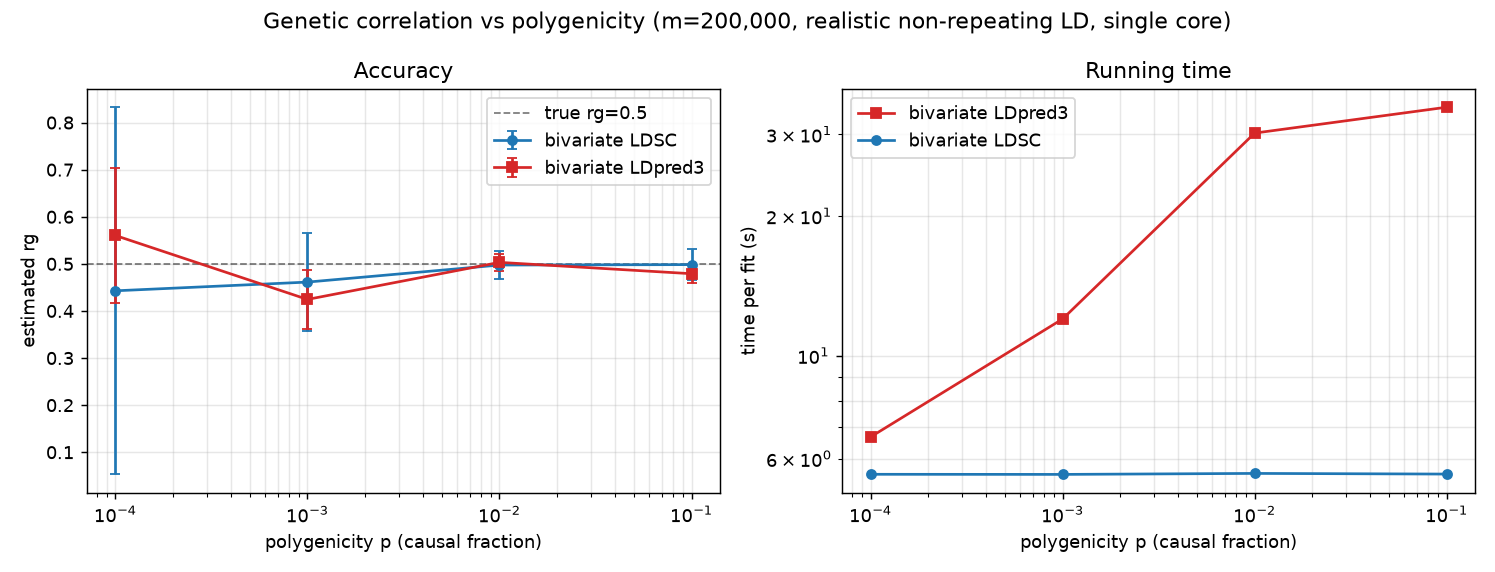
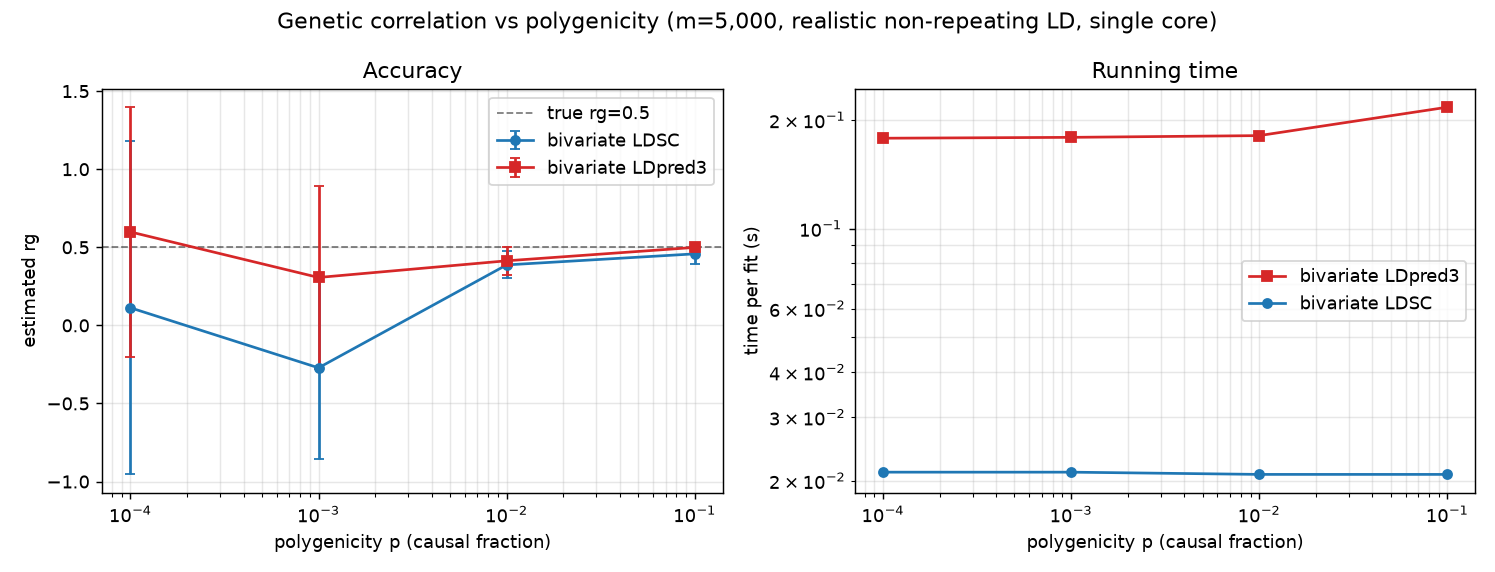
Add pi_prior; re-characterize count bias as LD-spreading; regen artifacts
Two threads:

1. pi_prior. The four-state mixture Dirichlet prior concentration is now a
   parameter (default 1.0 = historical uniform, backward compatible; 0.5 =
   Jeffreys). Mirrors ldpred3's new univariate p_prior. It is a minor lever for
   the absolute counts under real LD (~5%), with rg unchanged; improper <=0
   concentrations are rejected. Adds a test.

2. Re-characterize the absolute polygenic-count over-count. Benchmarking the
   univariate and bivariate samplers against known truth (and ldpred3's exact
   no-LD marginal posterior for p) shows the low-per-SNP-power over-count is
   dominated by LD-spreading -- correlated SNPs recruited as causal around each
   true causal -- which inflates the count at the posterior mode itself (tight
   posterior, mean ~ median ~ mode), is present even under matched in-sample LD,
   and is amplified by the four-state model, so the bivariate over-counts MORE
   than the univariate fit. This corrects the earlier "identical to univariate /
   U-shaped in power / mainly LD-reference-mismatch" framing. The prior and the
   mean-vs-median summary are drivers only in the no-LD limit. Per-causal power
   governs identifiability but the bias is genuinely 2-D in (N*h2/M, p). Ratios
   (rg, frac_shared) cancel it throughout. Updates docs/rg.md, the mixer /
   mixer_calibrated / noise_inflation docstrings, and mixer_overlap.py.

Regenerates the stale bivariate benchmark artifacts (rg_polygenicity,
[…]

diff --git a/bipred/bivariate.py b/bipred/bivariate.py
@@ -325,17 +325,19 @@ class BivariateResult:
         Caveat: the point-normal mixture does **not calibrate absolute
         polygenicity** — the four-state posterior counts a causal variant's LD
         neighbours as (partially) causal too, so ``n_causal`` / ``n_shared`` are
-        biased by an architecture- and power-dependent factor (benchmarked from
-        ~0.3x with clustered causal variants to ~2.5x when they are spread across
-        LD blocks and N is large; see ``benchmarks/mixer_overlap.py``). The
-        dominant term is **LD-reference mismatch** (the bias grows with N and
-        collapses when the fit uses the exact in-sample LD); ``r_g`` and the
-        overlap fraction are *ratios* and cancel it, so read ``polygenicity`` /
-        ``n_*`` as *relative*. To put the counts on a calibrated scale, anchor them
-        with two univariate ``ldpred3_auto_infer`` runs via :meth:`mixer_calibrated`
-        (the univariate polygenicity is far less LD-mismatch-sensitive). A dedicated
-        causal-mixture likelihood (MiXeR) is what calibrates the absolute counts
-        from scratch. Needs a well-powered pair (large ``N*h2/m``) to be meaningful.
+        **over-estimated at the low per-SNP power `N*h2/M < 1` of real GWAS**
+        (~3x at ``p=0.10``, more when sparser; see ``benchmarks/mixer_overlap.py``
+        and docs/rg.md). The dominant term with real LD is **LD-spreading**:
+        it persists even under matched, in-sample LD (it does *not* collapse), and
+        the four-state model amplifies it, so the bivariate over-counts more than
+        univariate ``ldpred3_auto_infer``. ``r_g`` and the overlap fraction are
+        *ratios* and cancel it, so read ``polygenicity`` / ``n_*`` as *relative*.
+        Mitigations: ``noise_inflation=True`` (damps the reference-mismatch part),
+        LD shrinkage / QC, and — for a calibrated scale — anchoring with two
+        univariate runs via :meth:`mixer_calibrated` (the univariate anchor is
+        *less* LD-spread-inflated, so this reduces but does not remove the bias).
+        A dedicated causal-mixture likelihood (MiXeR) calibrates from scratch.
+        Needs a well-powered pair (large ``N*h2/m``) to be meaningful.
 
         For the **posterior distribution** of these quantities (a credible interval,
         not just this point estimate), see :meth:`mixer_posterior`, which maps the
@@ -438,14 +440,16 @@ class BivariateResult:
         """:attr:`mixer` with the **absolute counts calibrated** by two univariate
         ``ldpred3_auto_infer`` runs.
 
-        The joint fit's per-trait polygenicity is inflated mainly by LD-reference
-        mismatch, and the four-state sampler is ~2x more sensitive to it than a
+        The joint fit's per-trait polygenicity is inflated mainly by **LD-spreading**
+        (correlated SNPs recruited around each causal, present even under matched
+        LD), and the four-state sampler is ~2x more sensitive to it than a
         univariate fit. This keeps the joint fit's reliable *ratios* — the shared
         fraction ``frac_shared`` and the within-shared effect correlation
         ``rho_beta`` — but replaces ``(pi1, pi2)`` with the univariate learned
-        polygenicities (well-calibrated when the LD matches), and rebuilds
-        ``n_causal`` / ``n_shared`` / ``rg_from_overlap`` on that scale. This is the
-        recommended readout for **absolute** overlap counts.
+        polygenicities (which are *less* inflated, though still over-counted at low
+        power), and rebuilds ``n_causal`` / ``n_shared`` / ``rg_from_overlap`` on
+        that scale. So it *reduces* rather than eliminates the absolute-count bias;
+        combine with ``noise_inflation`` / adequate power / LD QC.
 
         ``infer1`` / ``infer2`` are the trait-1 / trait-2 :class:`InferResult`
         objects (their ``p_est`` is used); floats are also accepted.
@@ -473,7 +477,7 @@ def ldpred3_auto_bivariate_blocks(blocks, beta_hat1, beta_hat2, n_eff1, n_eff2, 
                                   h2_bounds=(1e-4, 1.0), h2_cap=None,
                                   iw_df=10.0, rg_decorrelated=False,
                                   noise_inflation=False, ni_damp=0.1,
-                                  sample_every=5, seed=None):
+                                  pi_prior=1.0, sample_every=5, seed=None):
     """Genome-wide (streaming) bivariate LDpred3-auto.
 
     ``blocks`` is the ``[(R, idx), ...]`` list (contiguous ``idx`` partitioning
@@ -526,29 +530,42 @@ def ldpred3_auto_bivariate_blocks(blocks, beta_hat1, beta_hat2, n_eff1, n_eff2, 
         GWAS sample, but is inflated under **LD-reference mismatch**; the learned
         ``lambda`` makes the sampler correspondingly less confident so it stops
         reading that misfit as extra polygenicity. This targets the **absolute
-        polygenic-overlap counts** (:attr:`BivariateResult.mixer`). Their bias is
-        **U-shaped in per-SNP power** ``N*h2/M`` and is *dominated by the
-        realistic low-power regime* ``N*h2/M < 1``: there the point-normal model
-        over-recruits null SNPs and the count is over-estimated by up to ~3x even
-        under **matched** LD, so this is an over-count of the model itself, not a
-        bivariate or LD-mismatch defect (the same over-count appears in ldpred3's
-        univariate ``p``). LD-reference mismatch adds a further, smaller inflation
-        on top. ``lambda`` damps **both** components -- most under mismatch, but it
-        also tempers the low-power over-recruitment -- while leaving ``h2`` and
-        ``rg`` essentially unchanged (validated in ``benchmarks/mixer_overlap.py``:
-        e.g. count/true 3.4->2.5 at ``N*h2/M=0.1`` on reference-panel LD). A scalar
-        ``lambda`` cannot absorb structured mismatch or dense-causal LD-spreading
-        entirely, and it is ~a no-op under matched LD at higher power
+        polygenic-overlap counts** (:attr:`BivariateResult.mixer`), which at the
+        realistic low per-SNP power ``N*h2/M < 1`` are over-estimated (~3x at
+        ``p=0.10``, more when sparser). The dominant cause with real LD is
+        **LD-spreading** -- correlated SNPs recruited as causal around each true
+        causal, inflating the count at the posterior *mode* itself (present even
+        under matched LD; amplified by the four-state model, so the bivariate
+        over-counts more than univariate ``ldpred3_auto_infer``). LD-*reference*
+        mismatch adds a further inflation on top. ``lambda`` damps the
+        **mismatch** component (and a little of the spreading) while leaving ``h2``
+        and ``rg`` essentially unchanged (validated in
+        ``benchmarks/mixer_overlap.py``: e.g. count/true 3.4->2.5 at ``N*h2/M=0.1``
+        on reference-panel LD). A scalar ``lambda`` cannot absorb the matched-LD
+        spreading, and it is ~a no-op under matched LD at higher power
         (``lambda ~ 1``). Recommended when fitting on a finite **reference panel**
         (the usual case); left off by default so the estimator is unchanged unless
-        requested. Whatever the absolute counts, the **ratios** (``rg``,
-        ``frac_shared``) are unbiased throughout. The learned factors are returned
-        in ``BivariateResult.noise_scale``.
+        requested. The Dirichlet ``pi_prior`` and the mean-vs-median summary are
+        only minor levers here (they matter in the no-LD limit; see docs/rg.md).
+        Whatever the absolute counts, the **ratios** (``rg``, ``frac_shared``) are
+        unbiased throughout. The learned factors are returned in
+        ``BivariateResult.noise_scale``.
     ni_damp : float, default 0.1
         Damping for the per-sweep ``lambda`` update (only used with
         ``noise_inflation``); smaller is more stable, larger adapts faster.
     sample_every : int, default 5
         Thinning for the retained effect samples used by the decorrelated ``rg``.
+    pi_prior : float, default 1.0
+        Symmetric Dirichlet concentration for the four-state mixture prior: each
+        sweep ``pi`` is drawn from ``Dirichlet(pi_prior + counts)``. ``1.0`` is
+        the historical uniform prior; ``0.5`` is the Jeffreys prior. The univariate
+        analog (``ldpred3_auto_infer(p_prior=...)``) is the primary knob -- a
+        smaller concentration reduces the low-power over-count of the *absolute*
+        polygenicities, but note the dominant inflation of the bivariate counts is
+        **LD-spreading** (correlated SNPs recruited around each causal, present
+        even under matched LD and amplified by the four-state model), which no
+        prior removes. Prefer ``noise_inflation``/LD QC and the ratios for absolute
+        counts; see ``docs/rg.md``.
     seed : int or None
 
     Returns
@@ -557,6 +574,9 @@ def ldpred3_auto_bivariate_blocks(blocks, beta_hat1, beta_hat2, n_eff1, n_eff2, 
     """
     if not -1.0 < cross_corr < 1.0:
         raise ValueError("cross_corr must be in (-1, 1)")
+    if pi_prior <= 0.0:
+        raise ValueError("pi_prior must be positive (an improper <=0 "
+                         "concentration can collapse the mixture)")
     bh1 = np.ascontiguousarray(beta_hat1, dtype=np.float64)
     bh2 = np.ascontiguousarray(beta_hat2, dtype=np.float64)
     m = bh1.shape[0]
@@ -666,7 +686,8 @@ def ldpred3_auto_bivariate_blocks(blocks, beta_hat1, beta_hat2, n_eff1, n_eff2, 
 
         # --- global hyper-parameter updates ---
         c00 = m - c10 - c01 - c11
-        pi = rng.dirichlet([1.0 + c00, 1.0 + c10, 1.0 + c01, 1.0 + c11])
+        pi = rng.dirichlet([pi_prior + c00, pi_prior + c10,
+                            pi_prior + c01, pi_prior + c11])
         n1c = c10 + c11
         n2c = c01 + c11
         # Inverse-Wishart-style shrinkage of (s1, s2, s12) toward the weak

diff --git a/tests/test_bivariate.py b/tests/test_bivariate.py
@@ -105,6 +105,32 @@ def test_mixer_overlap_params():
     assert abs(mx["rg_from_overlap"] - res.rg) < 0.15, (mx["rg_from_overlap"], res.rg)
 
 
+def test_pi_prior_default_and_validation():
+    # Default pi_prior reproduces the historical Dirichlet(1,1,1,1) sampler
+    # bit-for-bit; the Jeffreys concentration still yields a valid mixture and
+    # leaves rg essentially unchanged; improper concentrations are rejected.
+    import pytest
+    k, nb = 200, 12
+    blocks, chols, idxs = _blocks(nb, k, seed=2)
+    m = nb * k
+    rng = np.random.default_rng(3)
+    b1, b2 = _sim(blocks, chols, idxs, m, p=0.05, h2=(0.5, 0.5), rg=0.6, rng=rng)
+    bh1 = _sumstats(blocks, chols, idxs, b1, 60000, k, rng)
+    bh2 = _sumstats(blocks, chols, idxs, b2, 60000, k, rng)
+    kw = dict(burn_in=120, num_iter=180, seed=1)
+    default = ldpred3_auto_bivariate_blocks(blocks, bh1, bh2, 60000, 60000, **kw)
+    uni = ldpred3_auto_bivariate_blocks(blocks, bh1, bh2, 60000, 60000,
+                                        pi_prior=1.0, **kw)
+    jef = ldpred3_auto_bivariate_blocks(blocks, bh1, bh2, 60000, 60000,
+                                        pi_prior=0.5, **kw)
+    assert np.allclose(default.pi, uni.pi)
+    assert abs(jef.pi.sum() - 1.0) < 1e-6
+    assert abs(jef.rg - uni.rg) < 0.1
+    with pytest.raises(ValueError, match="pi_prior"):
+        ldpred3_auto_bivariate_blocks(blocks, bh1, bh2, 60000, 60000,
+                                      pi_prior=0.0, **kw)
+
+
 def test_mixer_calibrated_uses_univariate_polygenicity():
     # mixer_calibrated keeps the joint fit's reliable ratios (frac_shared,
     # rho_beta) but replaces per-trait polygenicity with two univariate runs'

diff --git a/benchmarks/mixer_overlap.py b/benchmarks/mixer_overlap.py
@@ -30,14 +30,19 @@ replicates on fixed genotypes:
     ``mixer_posterior`` credible interval covers the true causal count.
 
 The first three sweeps also record the **relative** polygenicity (pi_hat /
-pi_true). The point-normal count is *over*-estimated, and the bias is **U-shaped
-in per-SNP power** ``N*h2/M``: worst at the **low power typical of real GWAS**
-(``N*h2/M < 1``, present even with *matched* LD -- a low-power point-normal
-over-recruitment, not an LD effect), smallest near ``N*h2/M ~ 1``, and rising
-again only in the unrealistically high-power regime (where it becomes
-LD-conditioning / reference-mismatch dominated). It is identical for univariate
-and bivariate fits; the **ratios** (rg, frac_shared) stay reliable throughout
-(see the ``power`` / ``calibration`` sweeps, ``noise_inflation``, and docs/rg.md).
+pi_true). The count is *over*-estimated at the **low per-SNP power typical of
+real GWAS** (``N*h2/M < 1``): ~3x at ``p=0.10``, more when sparser, present even
+under *matched* LD. With real LD the dominant cause is **LD-spreading**
+(correlated SNPs recruited around each causal; the posterior is tight at the
+inflated value -- mean ~ median ~ mode), amplified by the four-state model so the
+bivariate over-counts *more* than univariate ``ldpred3_auto_infer``. The
+Dirichlet ``pi_prior`` and the mean-vs-median summary are only minor levers here
+(they dominate in the no-LD limit -- see ldpred3's ``p_prior`` and its
+docs/inference.md); LD-reference mismatch adds a further, ``noise_inflation``-
+removable inflation. Per-causal power ``N*h2/(M*p)`` governs identifiability but
+the bias is genuinely 2-D in ``(N*h2/M, p)``. The **ratios** (rg, frac_shared)
+stay reliable throughout (see the ``power`` / ``calibration`` sweeps,
+``noise_inflation``, and docs/rg.md).
 
     OPENBLAS_NUM_THREADS=1 OMP_NUM_THREADS=1 python benchmarks/mixer_overlap.py
 

diff --git a/docs/rg.md b/docs/rg.md
@@ -101,50 +101,60 @@ decomposition `r_g = ρ_β·π₁₁/√(π₁π₂)` — exposed as `res.mixer`
 (`n_causal`, `n_shared`) are over-estimated on realistic LD and should be read as
 relative unless calibrated (`benchmarks/mixer_overlap.py`, `calibration` sweep).
 
-### Absolute counts and LD conditioning
+### Absolute counts at low power
 
-The absolute-count bias is **not** a bivariate defect and **not** a fundamental
-identifiability wall — it is a property of the point-normal model fit on
-**rank-deficient LD**, and it is *identical* for univariate `ldpred3_auto_infer`
-and the bivariate fit (so `mixer_calibrated`'s univariate anchoring does not
-actually debias — the anchor carries the same bias). What we learned
-benchmarking it against known truth:
+At the **low per-SNP power `N·h²/M < 1` typical of real GWAS** (e.g. `h²=0.3`,
+`N=500k`, `M~1M` → ~0.15) the absolute polygenic counts are **over-estimated**,
+by ~3× at `p=0.10` and up to ~6× at a sparser `p=0.03`. Benchmarked against a
+**known** truth (`benchmarks/mixer_overlap.py`), the count/true ratio at `p=0.10`:
 
-- **The bias is U-shaped in per-SNP power `N·h²/M`, and worst in the regime real
-  GWAS actually occupy.** Real studies have `N·h²/M < 1` (e.g. `h²=0.3`, `N=500k`,
-  `M~1M` → ~0.15). Sweeping the count/true ratio (p=0.10, matched LD):
+| `N·h²/M` | 0.1 | 0.25 | 0.5 | 1 | 2 |
+|---|---|---|---|---|---|
+| matched LD | 3.3 | 1.9 | 1.1 | 1.0 | 1.1 |
+| ref-panel | 3.1 | 1.9 | 1.2 | 1.2 | 1.3 |
 
-  | `N·h²/M` | 0.1 | 0.25 | 0.5 | 1 | 2 |
-  |---|---|---|---|---|---|
-  | matched | 3.3 | 1.9 | 1.1 | 1.0 | 1.1 |
-  | ref-panel | 3.1 | 1.9 | 1.2 | 1.2 | 1.3 |
+The mechanism, dissected against truth (univariate `ldpred3_auto_infer` and the
+exact no-LD posterior; see ldpred3's
+[`docs/inference.md`](https://github.com/bvilhjal/ldpred3/blob/master/docs/inference.md)):
 
-  At the **low power typical of practice** the count is over-estimated ~2–3×,
-  worst at the lowest power — and this is present with *matched* LD, so it is a
-  **low-power point-normal over-recruitment** (the sampler cannot rule out weak
-  causals), not an LD effect. It is smallest near `N·h²/M ≈ 1`. Only in the
-  **unrealistically high-power** regime (`N·h²/M ≫ 1`) does the count rise again,
-  and *there* it is LD-conditioning / reference-mismatch driven (that branch
-  grows with N and reaches ~2× by `N·h²/M = 20`, but you never get there).
-- **Not a bivariate defect, and not fixable by univariate anchoring.** The
-  over-count is *identical* for univariate `ldpred3_auto_infer` and the bivariate
-  fit, consistent with ldpred3's own univariate benchmark (`p`: 0.2→0.29,
-  0.01→0.014). "Unbiased polygenicity" is a well-powered-regime statement; at real
-  power the absolute counts are inflated and should be read as **relative**.
-- **Two levers.** (a) `noise_inflation=True` damps the over-recruitment (both the
-  low-power part — ~3.4×→2.5× at `N·h²/M=0.1` — and the high-power mismatch part),
-  with `h²`/`r_g` unchanged, and it improves the posterior coverage below.
-  (b) `res.mixer_posterior()` gives the posterior **credible interval** for each
-  count (calibrated when the LD matches; see below).
-- **The `r_g` and the overlap ratios cancel this bias** and stay reliable across
-  the whole power range (`r_g ≈ 0.3–0.4` for true 0.4, even at `N·h²/M = 0.1`).
+- **The dominant cause with real LD is LD-spreading, not the prior or the
+  point-estimate.** Even under *matched, in-sample* LD the count is inflated at
+  the posterior **mode itself** (mean ≈ median ≈ mode — the posterior is *tight*
+  around the wrong value), because correlated SNPs are recruited as causal around
+  each true causal. This is a genuine likelihood-level effect, and no prior or
+  summary choice removes it.
+- **The bivariate over-counts *more* than the univariate** (correcting an earlier
+  note): a SNP correlated with signal in *either* trait can enter states `10`,
+  `01` or `11`, so the four-state model amplifies the spreading (~3× bivariate vs
+  ~1.4–2× univariate at `p=0.10`, `N·h²/M=0.1`). So `mixer_calibrated`'s
+  univariate anchoring does help somewhat (the univariate anchor is *less*
+  inflated), but it does not fully debias.
+- **The prior is a minor lever here.** `pi_prior` sets the symmetric Dirichlet
+  concentration (default `1.0`, uniform; `0.5` is Jeffreys). Jeffreys trims only
+  ~5% off the count with real LD (`r_g` unchanged) — in the *no-LD* limit the
+  prior and the mean-vs-median skew are the whole story and Jeffreys removes them
+  (that is where ldpred3's univariate `p_prior=(0.5,0.5)` matters), but realistic
+  LD-spreading swamps them.
+- **Per-causal power `λ_c = N·h²/(M·p)` governs identifiability but the bias is
+  genuinely 2-D** in `(N·h²/M, p)` — worst where `λ_c ≈ 1` *and* the true `p` is
+  far below the prior mean — so a *sparse* trait (`λ_c > 1` even at `N·h²/M < 1`)
+  is better determined, but no single `λ_c` threshold certifies safety.
+- **What actually helps.** `noise_inflation=True` damps the count (~3.4×→2.5× at
+  `N·h²/M=0.1`, most of it the reference-mismatch part), with `h²`/`r_g`
+  unchanged, and improves the posterior coverage below;
+  `res.mixer_posterior()` gives the **credible interval**; LD shrinkage / QC and
+  adequate power shrink the spreading. Otherwise **read the absolute counts as
+  relative**.
+- **The `r_g` and the overlap ratios cancel the bias entirely** and stay reliable
+  across the whole power range (`r_g ≈ 0.3–0.4` for true 0.4, even at
+  `N·h²/M = 0.1`).
 
-`res.mixer_calibrated(infer1, infer2)` still exists (it rebuilds the counts on
-two univariate `ldpred3.ldpred3_auto_infer` polygenicities while keeping the joint
-ratios), but note the caveat above: the univariate anchor shares the same
-power-dependent over-count, so it does not debias — prefer `noise_inflation`,
-adequate power, and good LD (shrinkage / QC) for absolute counts, and lean on the
-ratios otherwise.
+`res.mixer_calibrated(infer1, infer2)` rebuilds the counts on two univariate
+`ldpred3.ldpred3_auto_infer` polygenicities while keeping the joint ratios; since
+the univariate anchor is less LD-spread-inflated than the joint fit, it *reduces*
+(without eliminating) the over-count — for absolute counts prefer
+`noise_inflation`, `pi_prior=0.5`, adequate power and good LD (shrinkage / QC),
+and lean on the ratios otherwise.
 
 ## Handling sample overlap
 

diff --git a/CHANGELOG.md b/CHANGELOG.md
@@ -7,6 +7,25 @@ follow [Semantic Versioning](https://semver.org/).
 ## [Unreleased]
 
 ### Added
+- **Configurable four-state mixture prior (`pi_prior`).** The Dirichlet
+  concentration for the per-sweep `π` draw is now a parameter (default `1.0`,
+  the historical uniform prior; `0.5` is Jeffreys). Backward compatible. Mirrors
+  ldpred3's univariate `p_prior`; it is a *minor* lever for the absolute counts
+  under real LD (~5% at low power) because those are dominated by LD-spreading,
+  not the prior — see below.
+- **Re-characterized the absolute polygenic-count bias (docs + benchmark).**
+  Dissected against known truth (and ldpred3's exact no-LD posterior), the
+  low-per-SNP-power over-count of `mixer` `n_causal`/`n_shared` is now correctly
+  attributed to **LD-spreading** (correlated SNPs recruited around each causal;
+  the posterior is *tight* at the inflated value — mean ≈ median ≈ mode — so it
+  is a likelihood-level effect, present even under matched in-sample LD, and the
+  four-state model **amplifies it, so the bivariate over-counts more than the
+  univariate** fit). Corrects the earlier "identical to univariate / U-shaped /
+  mainly LD-reference-mismatch" framing. The prior and the mean-vs-median summary
+  matter only in the no-LD limit. Per-causal power `N·h²/(M·p)` governs
+  identifiability but the bias is genuinely 2-D in `(N·h²/M, p)`. `r_g` and the
+  overlap ratios cancel it. `docs/rg.md` and `benchmarks/mixer_overlap.py` updated;
+  benchmark data regenerated on the better-conditioned coalescent LD.
 - **Initial release: bivariate (two-trait) LDpred, split out of `ldpred3`.**
   The four-state joint sampler (`ldpred3_auto_bivariate` /
   `ldpred3_auto_bivariate_blocks`, returning `BivariateResult`) moves here